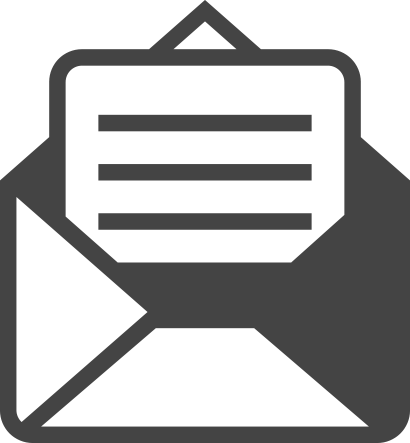
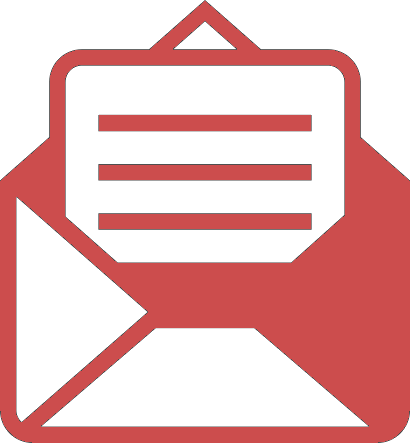
Image updates.

diff --git a/anne02/wwwroot/css/style.css b/anne02/wwwroot/css/style.css
@@ -43,12 +43,12 @@ body {
       content: ""; }
 
 a {
-  color: #cc4d4d;
+  color: #cc0000;
   -webkit-transition: 0.5s;
   -o-transition: 0.5s;
   transition: 0.5s; }
   a:hover, a:active, a:focus {
-    color: #cc4d4d;
+    color: #cc0000;
     outline: none;
     text-decoration: none; }
 
@@ -63,15 +63,15 @@ h1, h2, h3, h4, h5, h6, figure {
 
 ::-webkit-selection {
   color: #fff;
-  background: #cc4d4d; }
+  background: #cc0000; }
 
 ::-moz-selection {
   color: #fff;
-  background: #cc4d4d; }
+  background: #cc0000; }
 
 ::selection {
   color: #fff;
-  background: #cc4d4d; }
+  background: #cc0000; }
 
 .container-wrap {
   /*max-width: 1060px;*/
@@ -94,13 +94,13 @@ h1, h2, h3, h4, h5, h6, figure {
       .fh5co-nav .top-menu {
         padding: 28px 1em; } }
   .fh5co-nav #fh5co-logo {
-    font-size: 30px;
+    font-size: 32px;
     margin: 0;
     padding: 0;
     font-weight: 400;
     font-family: "Lobster", cursive; }
     .fh5co-nav #fh5co-logo a span {
-      color: #cc4d4d; }
+      color: #cc0000; }
   .fh5co-nav a {
     padding: 5px 0;
     color: #000; }
@@ -109,7 +109,7 @@ h1, h2, h3, h4, h5, h6, figure {
       display: none; } }
   .fh5co-nav ul {
     padding: 0;
-    margin: 15px 0 0 0; }
+    margin: 20px 0 0 0; }
     .fh5co-nav ul li {
       font-family: "Lobster", cursive;
       padding: 0;
@@ -135,7 +135,7 @@ h1, h2, h3, h4, h5, h6, figure {
           content: '';
           width: 58%;
           height: 2px;
-          background: #cc4d4d;
+          background: #cc0000;
           margin: 0 auto;
           opacity: 0;
           -webkit-transition: -webkit-transform 0.3s, opacity 0.3s;
@@ -162,7 +162,7 @@ h1, h2, h3, h4, h5, h6, figure {
           top: 40px;
           left: 0;
           text-align: left;
-          background: #cc0000;
+          background: #cc4d4d;
           padding: 20px;
           -webkit-border-radius: 4px;
           -moz-border-radius: 4px;
@@ -199,12 +199,12 @@ h1, h2, h3, h4, h5, h6, figure {
               .fh5co-nav ul li.has-dropdown .dropdown li a:hover {
                 color: #fff; }
         .fh5co-nav ul li.has-dropdown:hover a, .fh5co-nav ul li.has-dropdown:focus a {
-          color: #cc0000; }
+          color: #cc4d4d; }
       .fh5co-nav ul li.btn-cta a {
         padding: 30px 0px !important;
         color: #fff; }
         .fh5co-nav ul li.btn-cta a span {
-          background: #cc4d4d;
+          background: #cc0000;
           padding: 4px 10px;
           display: -moz-inline-stack;
           display: inline-block;
@@ -327,7 +327,7 @@ h1, h2, h3, h4, h5, h6, figure {
           #fh5co-hero .flexslider .flex-control-nav li a.flex-active {
             cursor: pointer;
             background: transparent;
-            border: 2px solid #cc4d4d; }
+            border: 2px solid #cc0000; }
     #fh5co-hero .flexslider .flex-direction-nav {
       display: none; }
     #fh5co-hero .flexslider .slider-text {
@@ -360,8 +360,8 @@ h1, h2, h3, h4, h5, h6, figure {
           line-height: 1.5;
           margin-bottom: 30px; }
           #fh5co-hero .flexslider .slider-text > .slider-text-inner h2 a {
-            color: rgba(204, 77, 77, 0.8);
-            border-bottom: 1px solid rgba(204, 77, 77, 0.7); }
+            color: rgba(204, 0, 0, 0.8);
+            border-bottom: 1px solid rgba(204, 0, 0, 0.7); }
         #fh5co-hero .flexslider .slider-text > .slider-text-inner .heading-section {
           font-size: 50px; }
           @media screen and (max-width: 768px) {
@@ -414,7 +414,7 @@ h1, h2, h3, h4, h5, h6, figure {
   padding-left: 75px; }
 
 #fh5co-services p {
-  margin-bottom: 40px; }
+  margin-bottom: 100px; }
 
 .services {
   position: relative;
@@ -422,7 +422,7 @@ h1, h2, h3, h4, h5, h6, figure {
   -o-transition: 0.3s;
   transition: 0.3s; }
   .services h3 {
-    margin-bottom: 40px;
+    margin-bottom: 20px;
     font-size: 24px;
     font-family: "Lobster", cursive;
     /*text-transform: uppercase;*/
@@ -453,7 +453,9 @@ h1, h2, h3, h4, h5, h6, figure {
       color: #000; }
     .services .icon img {
       border-radius: 50%;
-      border: 1px solid #cc4d4d; }
+      border: 1px solid #cc0000; }
+    .services .icon .contact-img {
+      object-fit: contain; }
 
 .work {
   background-size: contain;
@@ -799,7 +801,7 @@ input[type="text"] {
       display: inline-block;
       zoom: 1;
       *display: inline;
-      color: #cc4d4d;
+      color: #cc0000;
       padding-left: 10px;
       padding-right: 10px; }
       .fh5co-social-icons li a i {
@@ -999,9 +1001,9 @@ input[type="text"] {
       transition: all .2s ease-out; }
   .fh5co-nav-toggle.fh5co-nav-white > i {
     color: #fff;
-    background: #cc4d4d; }
+    background: #cc0000; }
     .fh5co-nav-toggle.fh5co-nav-white > i::before, .fh5co-nav-toggle.fh5co-nav-white > i::after {
-      background: #cc4d4d; }
+      background: #cc0000; }
 
 .fh5co-nav-toggle i::before {
   top: -7px; }
@@ -1041,7 +1043,7 @@ input[type="text"] {
   right: 30px;
   top: 65px;
   z-index: 21;
-  padding: 6px 0 0 0;
+  padding: 20px 0 0 0;
   display: block;
   margin: 0 auto;
   display: none;
@@ -1076,18 +1078,18 @@ input[type="text"] {
     outline: none !important; }
 
 .btn-primary {
-  background: #cc4d4d;
+  background: #cc0000;
   color: #fff;
-  border: 2px solid #cc4d4d; }
+  border: 2px solid #cc0000; }
   .btn-primary:hover, .btn-primary:focus, .btn-primary:active {
-    background: #d26161 !important;
-    border-color: #d26161 !important; }
+    background: #e60000 !important;
+    border-color: #e60000 !important; }
   .btn-primary.btn-outline {
     background: transparent;
-    color: #cc4d4d;
-    border: 2px solid #cc4d4d; }
+    color: #cc0000;
+    border: 2px solid #cc0000; }
     .btn-primary.btn-outline:hover, .btn-primary.btn-outline:focus, .btn-primary.btn-outline:active {
-      background: #cc4d4d;
+      background: #cc0000;
       color: #fff; }
 
 .btn-success {
@@ -1193,7 +1195,7 @@ input[type="text"] {
   .form-control:active, .form-control:focus {
     outline: none;
     box-shadow: none;
-    border-color: #cc4d4d; }
+    border-color: #cc0000; }
 
 .row-pb-md {
   padding-bottom: 4em !important; }

diff --git a/anne02/sass/style.scss b/anne02/sass/style.scss
@@ -8,7 +8,7 @@ $grid-gutter-width: 40px !default;
 $border-radius-base:  4px !default;
 $padding-base-vertical: 14px !default;
 
-$brand-primary: #cc4d4d !default;
+$brand-primary: #cc0000 !default;
 $brand-secondary: #007CB9 !default;
 
 $brand-white: #fff;
@@ -20,7 +20,7 @@ $brand-body-color: #fff8e8;
 $brand-selection-color: #f9f6f0;
 $brand-overlay-color: #4c4a8a;
 $brand-bg-color: $brand-white;
-$brand-red: #cc0000;
+$brand-red: #cc4d4d;
 
 $input-border-focus:  $brand-primary !default;
 $form-group-margin-bottom:       30px !default;
@@ -196,7 +196,7 @@ h1, h2, h3, h4, h5, h6, figure {
 
 	}
 	#fh5co-logo {
-		font-size: 30px;
+		font-size: 32px;
 		margin: 0;
 		padding: 0;
 		font-weight: 400;
@@ -219,7 +219,7 @@ h1, h2, h3, h4, h5, h6, figure {
 	}
 	ul {
 		padding: 0;
-		margin: 15px 0 0 0;
+		margin: 20px 0 0 0;
 		li {
 			font-family: $font-secondary;
 			padding: 0;
@@ -575,7 +575,7 @@ h1, h2, h3, h4, h5, h6, figure {
     }
 
     p {
-        margin-bottom: 40px;
+        margin-bottom: 100px;
     }
 }
 
@@ -585,7 +585,7 @@ h1, h2, h3, h4, h5, h6, figure {
     @include transition(.3s);
 
     h3 {
-        margin-bottom: 40px;
+        margin-bottom: 20px;
         font-size: 24px;
         font-family: $font-secondary;
         /*text-transform: uppercase;*/
@@ -624,6 +624,10 @@ h1, h2, h3, h4, h5, h6, figure {
         img {
             border-radius: 50%;
             border: 1px solid $brand-primary;
+        }
+
+        .contact-img {
+            object-fit: contain;
         }
     }
 }
@@ -1104,7 +1108,7 @@ input[type="text"] {
     z-index: 1901;
     width: 35vw;
     background: lighten($brand-black, 0%);
-    background: lighten($brand-primary, 0%);
+    background: lighten($brand-red, 0%);
     top: 0;
     right: 0;
     top: 0;
@@ -1298,7 +1302,7 @@ input[type="text"] {
   right: 30px;
   top: 65px;
   z-index: 21;
-  padding: 6px 0 0 0;
+  padding: 20px 0 0 0;
   display: block;
   margin: 0 auto;
   display: none;
